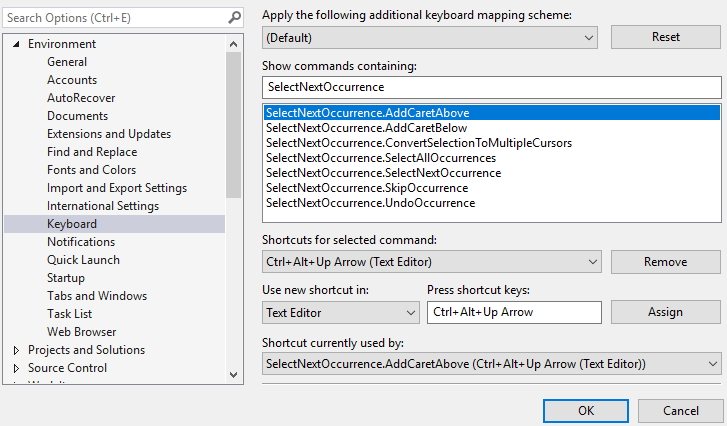
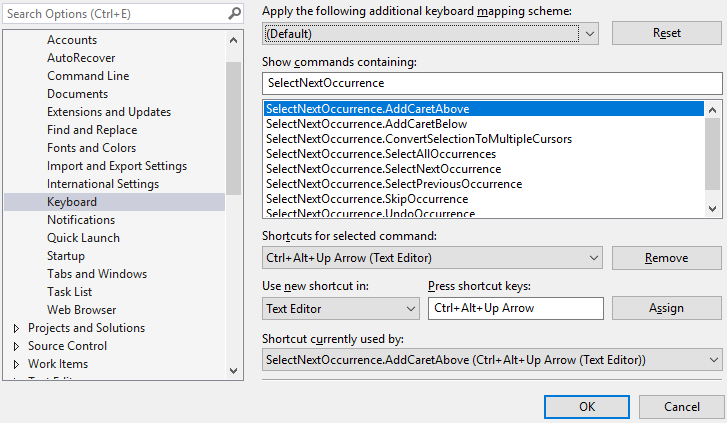
new keyboard-binding image

Changed region(s): [[0.3631, 0.0, 0.9986, 1.0], [0.0, 0.0, 0.3329, 0.922]]

diff --git a/README.md b/README.md
@@ -13,9 +13,10 @@ See the [change log/roadmap](CHANGELOG.md) for changes and Roadmap.
 
 ## Features
 
-- Select next occurrence of current selection. 
-- Select all occurrences.
-- Convert a selection into multiple cursors.
+- Select next occurrence of current selection
+- Select previous occurrence
+- Select all occurrences
+- Convert a selection into multiple cursors
 - Skip occurrence
 - Undo occurrence
 - Add caret above/below
